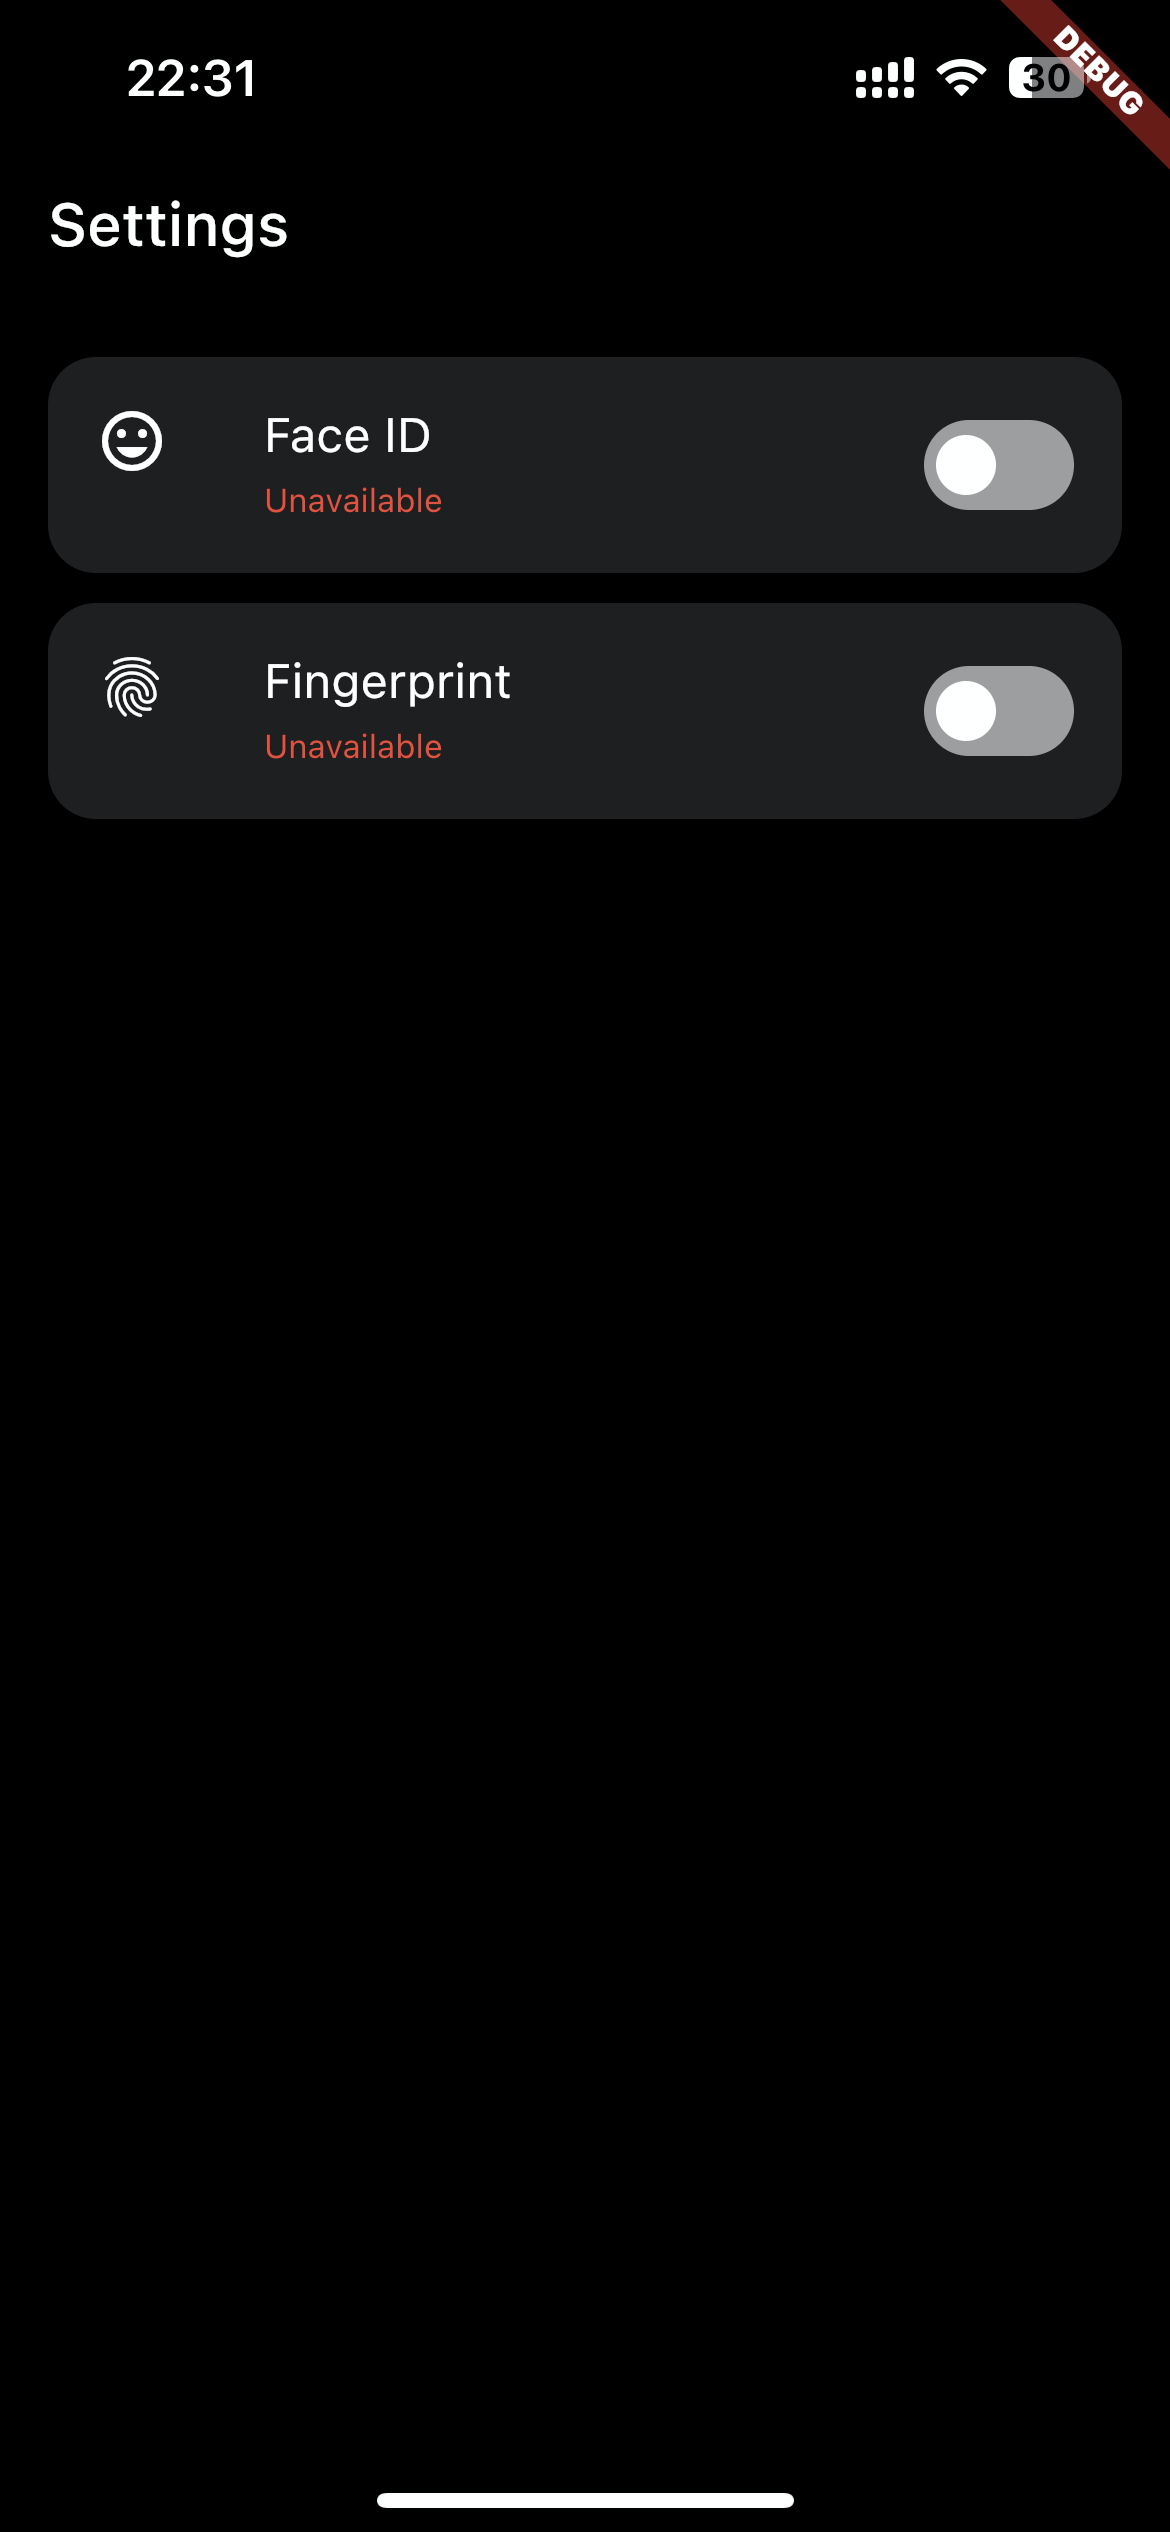
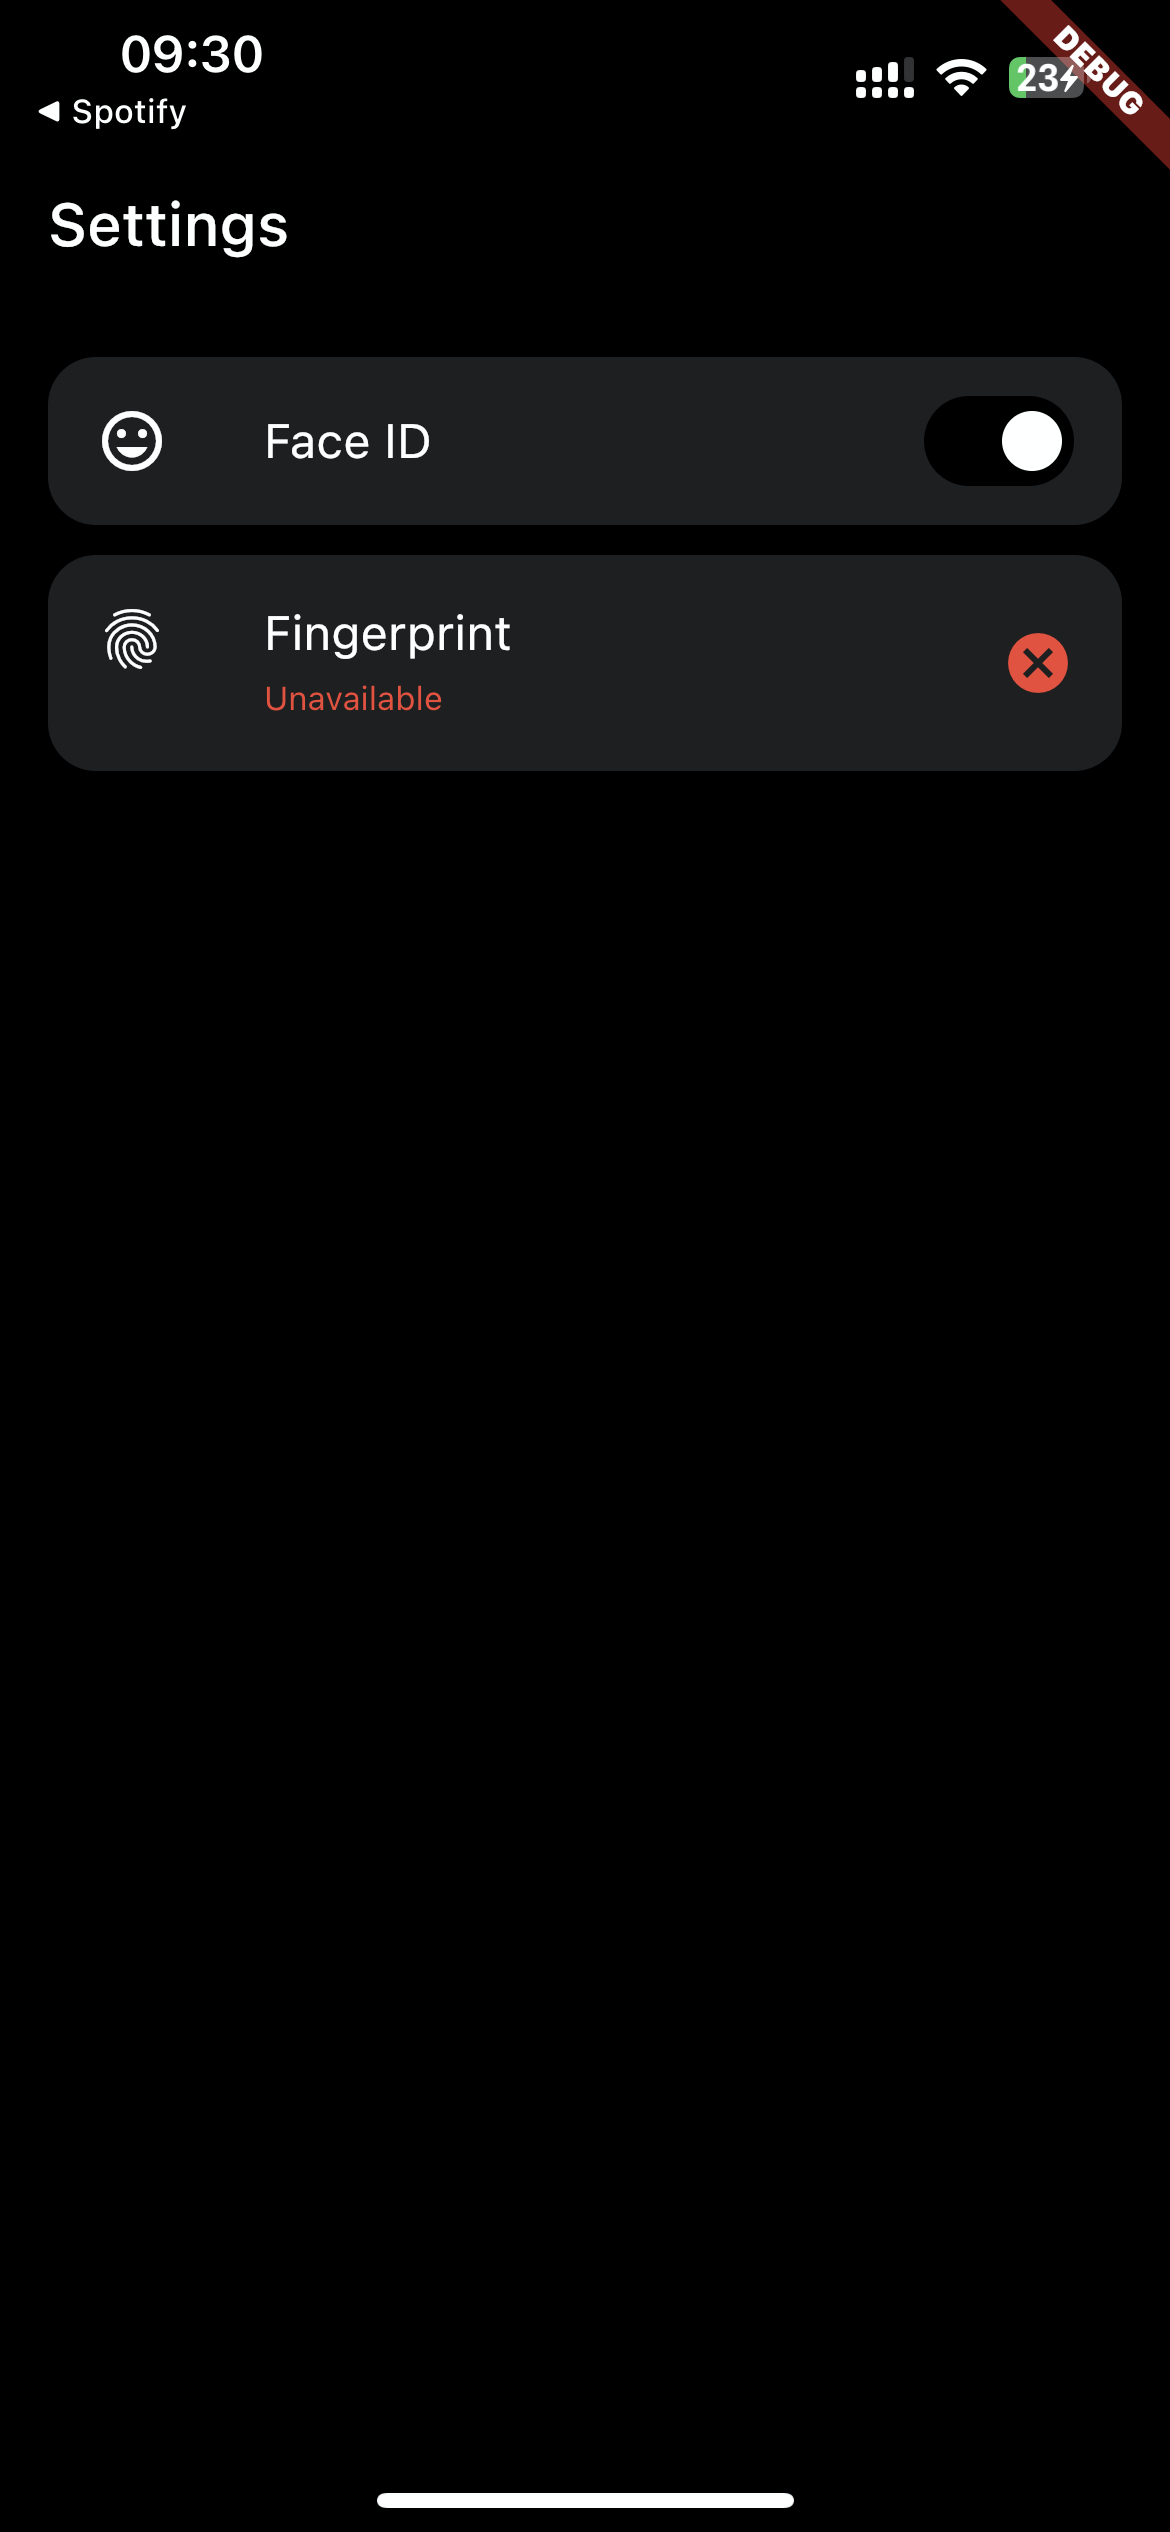
other fixes

Changed region(s): [[0.0308, 0.156, 0.9538, 0.3432], [0.0308, 0.0, 0.2154, 0.0624], [0.8615, 0.0, 0.9231, 0.0624]]

diff --git a/lib/screens/auth_method_component.dart b/lib/screens/auth_method_component.dart
@@ -1,14 +1,14 @@
 import 'package:custom_switch_widget/custom_switch_widget.dart';
 import 'package:flutter/material.dart';
 
-class AuthOptionComponent extends StatelessWidget {
+class AuthMethodComponent extends StatelessWidget {
   final String title;
   final bool isAvailable;
   final IconData iconData;
   final CustomSwitchController controller;
   final Function(bool) onChange;
 
-  AuthOptionComponent(
+  AuthMethodComponent(
       {required this.title,
       required this.iconData,
       required this.isAvailable,
@@ -40,8 +40,12 @@ class AuthOptionComponent extends StatelessWidget {
                   "Unavailable",
                   style: TextStyle(color: Colors.red, fontSize: 11.0),
                 ),
-          trailing:
-              CustomSwitchWidget(controller: controller, onChange: onAction),
+          trailing: isAvailable
+              ? CustomSwitchWidget(controller: controller, onChange: onAction)
+              : const Icon(
+                  Icons.cancel,
+                  color: Colors.red,
+                ),
         ));
   }
 }
